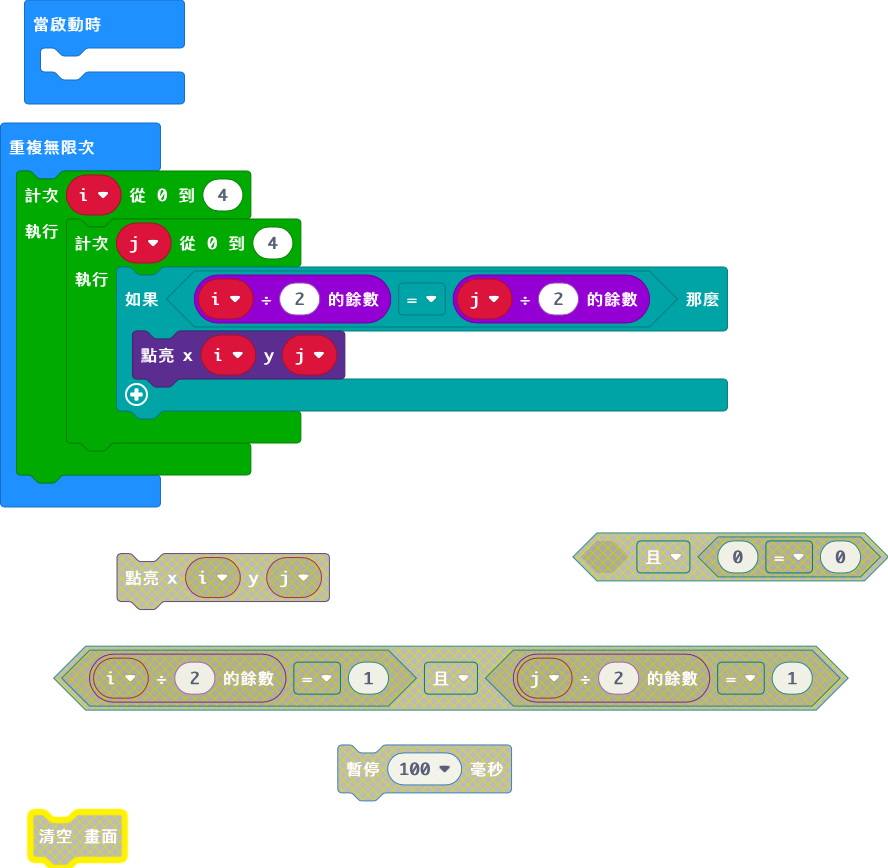
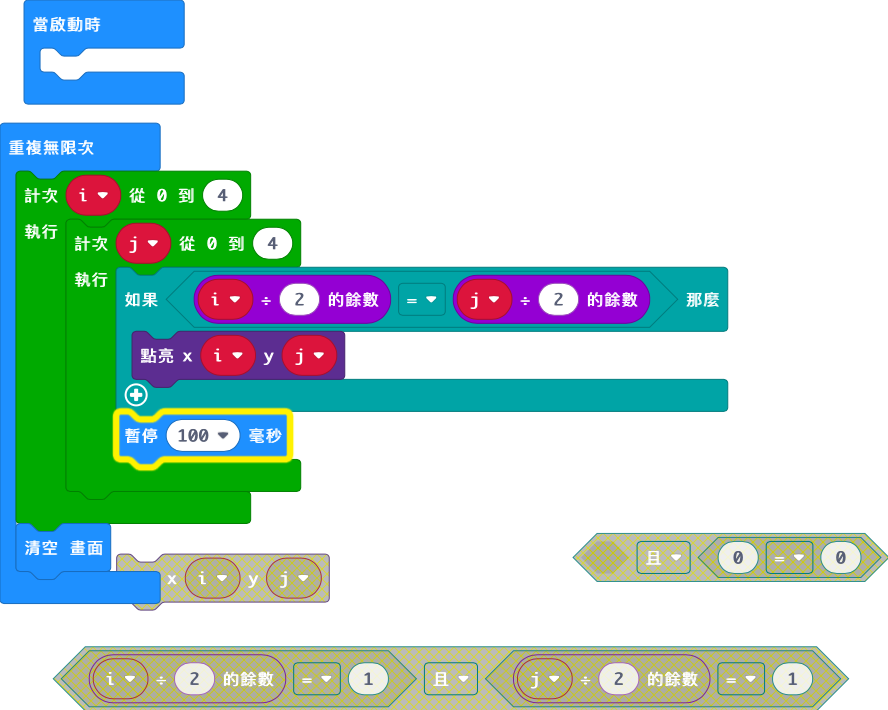
Update main.blocks, main.ts

diff --git a/main.ts b/main.ts
@@ -4,6 +4,8 @@ basic.forever(function () {
             if (i % 2 == j % 2) {
                 led.plot(i, j)
             }
+            basic.pause(100)
         }
     }
+    basic.clearScreen()
 })
